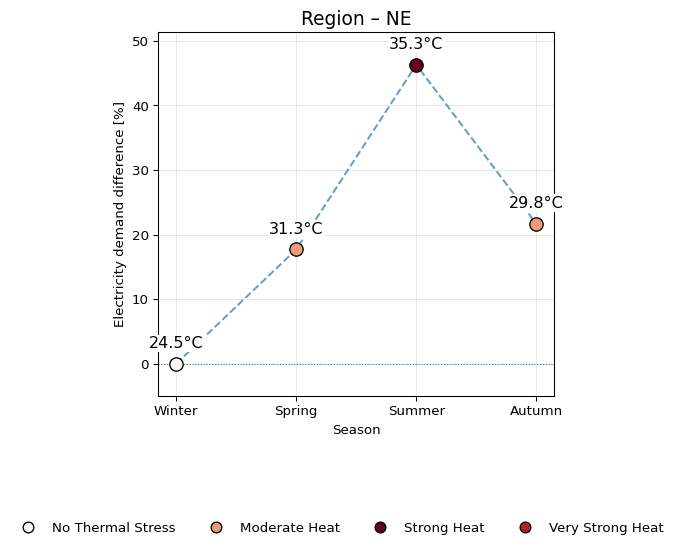
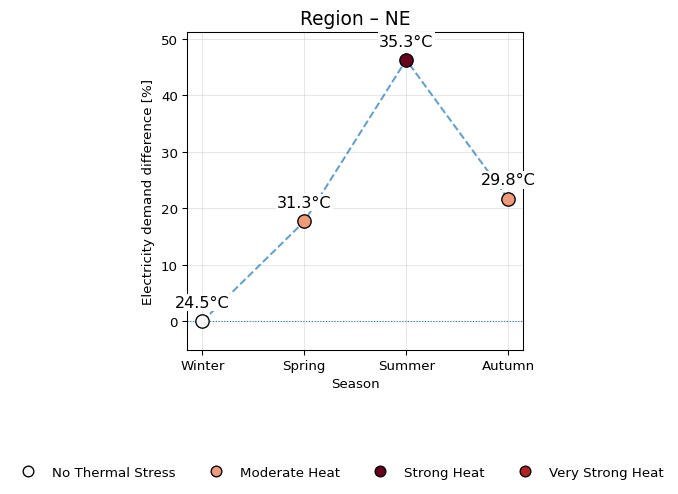
update figura 4.5

diff --git a/docs/index.html b/docs/index.html
@@ -111,7 +111,7 @@ ul.task-list li input[type="checkbox"] {
 <!-- 
 # UTCI vs Hourly electric demand
 
-::: {#eb6fc95b .cell execution_count=1}
+::: {#ded6f86d .cell execution_count=1}
 
 ::: {.cell-output .cell-output-display}
 ![](index_files/figure-html/cell-2-output-1.png){}
@@ -135,7 +135,7 @@ ul.task-list li input[type="checkbox"] {
 <div class="html-fill-item html-fill-container">
 
 </div>
-<div id="772218cd" class="cell quarto-layout-panel html-fill-item html-fill-container" data-execution_count="2" data-layout-ncol="2">
+<div id="97244298" class="cell quarto-layout-panel html-fill-item html-fill-container" data-layout-ncol="2" data-execution_count="2">
 <div class="quarto-layout-row html-fill-item html-fill-container">
 <div class="quarto-layout-cell html-fill-item html-fill-container" style="flex-basis: 50.0%;justify-content: center;">
 <img src="index_files/figure-html/cell-3-output-1.png" class="img-fluid">
@@ -159,7 +159,7 @@ ul.task-list li input[type="checkbox"] {
 <div class="html-fill-item html-fill-container">
 
 </div>
-<div id="b15c5b1c" class="cell quarto-layout-panel html-fill-item html-fill-container" data-execution_count="3" data-layout-ncol="2">
+<div id="6d01cd32" class="cell quarto-layout-panel html-fill-item html-fill-container" data-layout-ncol="2" data-execution_count="3">
 <div class="quarto-layout-row html-fill-item html-fill-container">
 <div class="quarto-layout-cell html-fill-item html-fill-container" style="flex-basis: 50.0%;justify-content: center;">
 <img src="index_files/figure-html/cell-4-output-1.png" class="img-fluid">
@@ -315,7 +315,7 @@ ul.task-list li input[type="checkbox"] {
 <div class="html-fill-item html-fill-container">
 
 </div>
-<div id="a820813f" class="cell quarto-layout-panel html-fill-item html-fill-container" data-execution_count="4" data-layout-ncol="2">
+<div id="cd5b8e27" class="cell quarto-layout-panel html-fill-item html-fill-container" data-layout-ncol="2" data-execution_count="4">
 <div class="quarto-layout-row html-fill-item html-fill-container">
 <div class="quarto-layout-cell html-fill-item html-fill-container" style="flex-basis: 50.0%;justify-content: center;">
 <img src="index_files/figure-html/cell-5-output-1.png" class="img-fluid">
@@ -339,7 +339,7 @@ ul.task-list li input[type="checkbox"] {
 <div class="html-fill-item html-fill-container">
 
 </div>
-<div id="abf6e2a9" class="cell quarto-layout-panel html-fill-item html-fill-container" data-execution_count="5" data-layout-ncol="2">
+<div id="a7ed5b02" class="cell quarto-layout-panel html-fill-item html-fill-container" data-layout-ncol="2" data-execution_count="5">
 <div class="quarto-layout-row html-fill-item html-fill-container">
 <div class="quarto-layout-cell html-fill-item html-fill-container" style="flex-basis: 50.0%;justify-content: center;">
 <img src="index_files/figure-html/cell-6-output-1.png" class="img-fluid">
@@ -495,7 +495,7 @@ ul.task-list li input[type="checkbox"] {
 <div class="html-fill-item html-fill-container">
 
 </div>
-<div id="f788fb2f" class="cell quarto-layout-panel html-fill-item html-fill-container" data-execution_count="6" data-layout-ncol="2">
+<div id="2ca6bac8" class="cell quarto-layout-panel html-fill-item html-fill-container" data-layout-ncol="2" data-execution_count="6">
 <div class="quarto-layout-row html-fill-item html-fill-container">
 <div class="quarto-layout-cell html-fill-item html-fill-container" style="flex-basis: 50.0%;justify-content: center;">
 <img src="index_files/figure-html/cell-7-output-1.png" class="img-fluid">
@@ -519,7 +519,7 @@ ul.task-list li input[type="checkbox"] {
 <div class="html-fill-item html-fill-container">
 
 </div>
-<div id="0203d006" class="cell quarto-layout-panel html-fill-item html-fill-container" data-execution_count="7" data-layout-ncol="2">
+<div id="0c0a76bf" class="cell quarto-layout-panel html-fill-item html-fill-container" data-layout-ncol="2" data-execution_count="7">
 <div class="quarto-layout-row html-fill-item html-fill-container">
 <div class="quarto-layout-cell html-fill-item html-fill-container" style="flex-basis: 50.0%;justify-content: center;">
 <img src="index_files/figure-html/cell-8-output-1.png" class="img-fluid">
@@ -675,7 +675,7 @@ ul.task-list li input[type="checkbox"] {
 <div class="html-fill-item html-fill-container">
 
 </div>
-<div id="d1b331a6" class="cell quarto-layout-panel html-fill-item html-fill-container" data-execution_count="8" data-layout-ncol="2">
+<div id="69ab8b50" class="cell quarto-layout-panel html-fill-item html-fill-container" data-layout-ncol="2" data-execution_count="8">
 <div class="quarto-layout-row html-fill-item html-fill-container">
 <div class="quarto-layout-cell html-fill-item html-fill-container" style="flex-basis: 50.0%;justify-content: center;">
 <img src="index_files/figure-html/cell-9-output-1.png" class="img-fluid">
@@ -699,7 +699,7 @@ ul.task-list li input[type="checkbox"] {
 <div class="html-fill-item html-fill-container">
 
 </div>
-<div id="b1651d7e" class="cell quarto-layout-panel html-fill-item html-fill-container" data-execution_count="9" data-layout-ncol="2">
+<div id="1c900d33" class="cell quarto-layout-panel html-fill-item html-fill-container" data-layout-ncol="2" data-execution_count="9">
 <div class="quarto-layout-row html-fill-item html-fill-container">
 <div class="quarto-layout-cell html-fill-item html-fill-container" style="flex-basis: 50.0%;justify-content: center;">
 <img src="index_files/figure-html/cell-10-output-1.png" class="img-fluid">
@@ -855,7 +855,7 @@ ul.task-list li input[type="checkbox"] {
 <div class="html-fill-item html-fill-container">
 
 </div>
-<div id="1d35a581" class="cell quarto-layout-panel html-fill-item html-fill-container" data-execution_count="10" data-layout-ncol="2">
+<div id="066098b0" class="cell quarto-layout-panel html-fill-item html-fill-container" data-layout-ncol="2" data-execution_count="10">
 <div class="quarto-layout-row html-fill-item html-fill-container">
 <div class="quarto-layout-cell html-fill-item html-fill-container" style="flex-basis: 50.0%;justify-content: center;">
 <img src="index_files/figure-html/cell-11-output-1.png" class="img-fluid">
@@ -879,7 +879,7 @@ ul.task-list li input[type="checkbox"] {
 <div class="html-fill-item html-fill-container">
 
 </div>
-<div id="6fe2d5ff" class="cell quarto-layout-panel html-fill-item html-fill-container" data-execution_count="11" data-layout-ncol="2">
+<div id="7f5b3a57" class="cell quarto-layout-panel html-fill-item html-fill-container" data-layout-ncol="2" data-execution_count="11">
 <div class="quarto-layout-row html-fill-item html-fill-container">
 <div class="quarto-layout-cell html-fill-item html-fill-container" style="flex-basis: 50.0%;justify-content: center;">
 <img src="index_files/figure-html/cell-12-output-1.png" class="img-fluid">
@@ -1035,7 +1035,7 @@ ul.task-list li input[type="checkbox"] {
 <div class="html-fill-item html-fill-container">
 
 </div>
-<div id="de6ab0bd" class="cell quarto-layout-panel html-fill-item html-fill-container" data-execution_count="12" data-layout-ncol="2">
+<div id="7a336692" class="cell quarto-layout-panel html-fill-item html-fill-container" data-layout-ncol="2" data-execution_count="12">
 <div class="quarto-layout-row html-fill-item html-fill-container">
 <div class="quarto-layout-cell html-fill-item html-fill-container" style="flex-basis: 50.0%;justify-content: center;">
 <img src="index_files/figure-html/cell-13-output-1.png" class="img-fluid">
@@ -1059,7 +1059,7 @@ ul.task-list li input[type="checkbox"] {
 <div class="html-fill-item html-fill-container">
 
 </div>
-<div id="fa8d8758" class="cell quarto-layout-panel html-fill-item html-fill-container" data-execution_count="13" data-layout-ncol="2">
+<div id="f4fadbe1" class="cell quarto-layout-panel html-fill-item html-fill-container" data-layout-ncol="2" data-execution_count="13">
 <div class="quarto-layout-row html-fill-item html-fill-container">
 <div class="quarto-layout-cell html-fill-item html-fill-container" style="flex-basis: 50.0%;justify-content: center;">
 <img src="index_files/figure-html/cell-14-output-1.png" class="img-fluid">
@@ -1215,7 +1215,7 @@ ul.task-list li input[type="checkbox"] {
 <div class="html-fill-item html-fill-container">
 
 </div>
-<div id="70109842" class="cell quarto-layout-panel html-fill-item html-fill-container" data-execution_count="14" data-layout-ncol="2">
+<div id="5d4aa1a1" class="cell quarto-layout-panel html-fill-item html-fill-container" data-layout-ncol="2" data-execution_count="14">
 <div class="quarto-layout-row html-fill-item html-fill-container">
 <div class="quarto-layout-cell html-fill-item html-fill-container" style="flex-basis: 50.0%;justify-content: center;">
 <img src="index_files/figure-html/cell-15-output-1.png" class="img-fluid">
@@ -1239,7 +1239,7 @@ ul.task-list li input[type="checkbox"] {
 <div class="html-fill-item html-fill-container">
 
 </div>
-<div id="9e16be7b" class="cell quarto-layout-panel html-fill-item html-fill-container" data-execution_count="15" data-layout-ncol="2">
+<div id="72838545" class="cell quarto-layout-panel html-fill-item html-fill-container" data-layout-ncol="2" data-execution_count="15">
 <div class="quarto-layout-row html-fill-item html-fill-container">
 <div class="quarto-layout-cell html-fill-item html-fill-container" style="flex-basis: 50.0%;justify-content: center;">
 <img src="index_files/figure-html/cell-16-output-1.png" class="img-fluid">
@@ -1395,7 +1395,7 @@ ul.task-list li input[type="checkbox"] {
 <div class="html-fill-item html-fill-container">
 
 </div>
-<div id="d1db17b5" class="cell quarto-layout-panel html-fill-item html-fill-container" data-execution_count="16" data-layout-ncol="2">
+<div id="ecfc109a" class="cell quarto-layout-panel html-fill-item html-fill-container" data-layout-ncol="2" data-execution_count="16">
 <div class="quarto-layout-row html-fill-item html-fill-container">
 <div class="quarto-layout-cell html-fill-item html-fill-container" style="flex-basis: 50.0%;justify-content: center;">
 <img src="index_files/figure-html/cell-17-output-1.png" class="img-fluid">
@@ -1419,7 +1419,7 @@ ul.task-list li input[type="checkbox"] {
 <div class="html-fill-item html-fill-container">
 
 </div>
-<div id="323765ae" class="cell quarto-layout-panel html-fill-item html-fill-container" data-execution_count="17" data-layout-ncol="2">
+<div id="18f26953" class="cell quarto-layout-panel html-fill-item html-fill-container" data-layout-ncol="2" data-execution_count="17">
 <div class="quarto-layout-row html-fill-item html-fill-container">
 <div class="quarto-layout-cell html-fill-item html-fill-container" style="flex-basis: 50.0%;justify-content: center;">
 <img src="index_files/figure-html/cell-18-output-1.png" class="img-fluid">
@@ -1575,7 +1575,7 @@ ul.task-list li input[type="checkbox"] {
 <div class="html-fill-item html-fill-container">
 
 </div>
-<div id="2c488366" class="cell quarto-layout-panel html-fill-item html-fill-container" data-execution_count="18" data-layout-ncol="2">
+<div id="f10c8df1" class="cell quarto-layout-panel html-fill-item html-fill-container" data-layout-ncol="2" data-execution_count="18">
 <div class="quarto-layout-row html-fill-item html-fill-container">
 <div class="quarto-layout-cell html-fill-item html-fill-container" style="flex-basis: 50.0%;justify-content: center;">
 <img src="index_files/figure-html/cell-19-output-1.png" class="img-fluid">
@@ -1595,7 +1595,7 @@ ul.task-list li input[type="checkbox"] {
 <!-- 
 ## Relative increase
 
-::: {#5a22656c .cell layout-ncol='2' execution_count=19}
+::: {#13688a97 .cell layout-ncol='2' execution_count=19}
 
 ::: {.cell-output .cell-output-display}
 ![](index_files/figure-html/cell-20-output-1.png){}
@@ -1633,7 +1633,7 @@ ul.task-list li input[type="checkbox"] {
 <div class="html-fill-item html-fill-container">
 
 </div>
-<div id="2708c702" class="cell quarto-layout-panel html-fill-item html-fill-container" data-execution_count="20" data-layout-ncol="2">
+<div id="ca87d0b2" class="cell quarto-layout-panel html-fill-item html-fill-container" data-layout-ncol="2" data-execution_count="20">
 <div class="quarto-layout-row html-fill-item html-fill-container">
 <div class="quarto-layout-cell html-fill-item html-fill-container" style="flex-basis: 50.0%;justify-content: center;">
 <img src="index_files/figure-html/cell-21-output-1.png" class="img-fluid">

diff --git a/utils/analisis.py b/utils/analisis.py
@@ -378,7 +378,7 @@ def plot_demand_increase(data_file: str,
 def plot_demand_with_table(data_file: str,
                            region: str,
                            kind: str = 'Region',
-                           figsize: tuple = (5, 5)) -> None:
+                           figsize: tuple = (4.4, 4.5)) -> None:
     """
     Grafica el incremento de demanda (%) respecto a Winter para una región o ciudad,
     anotando el valor de UTCI (°C) y coloreando según la categoría de estrés térmico.
